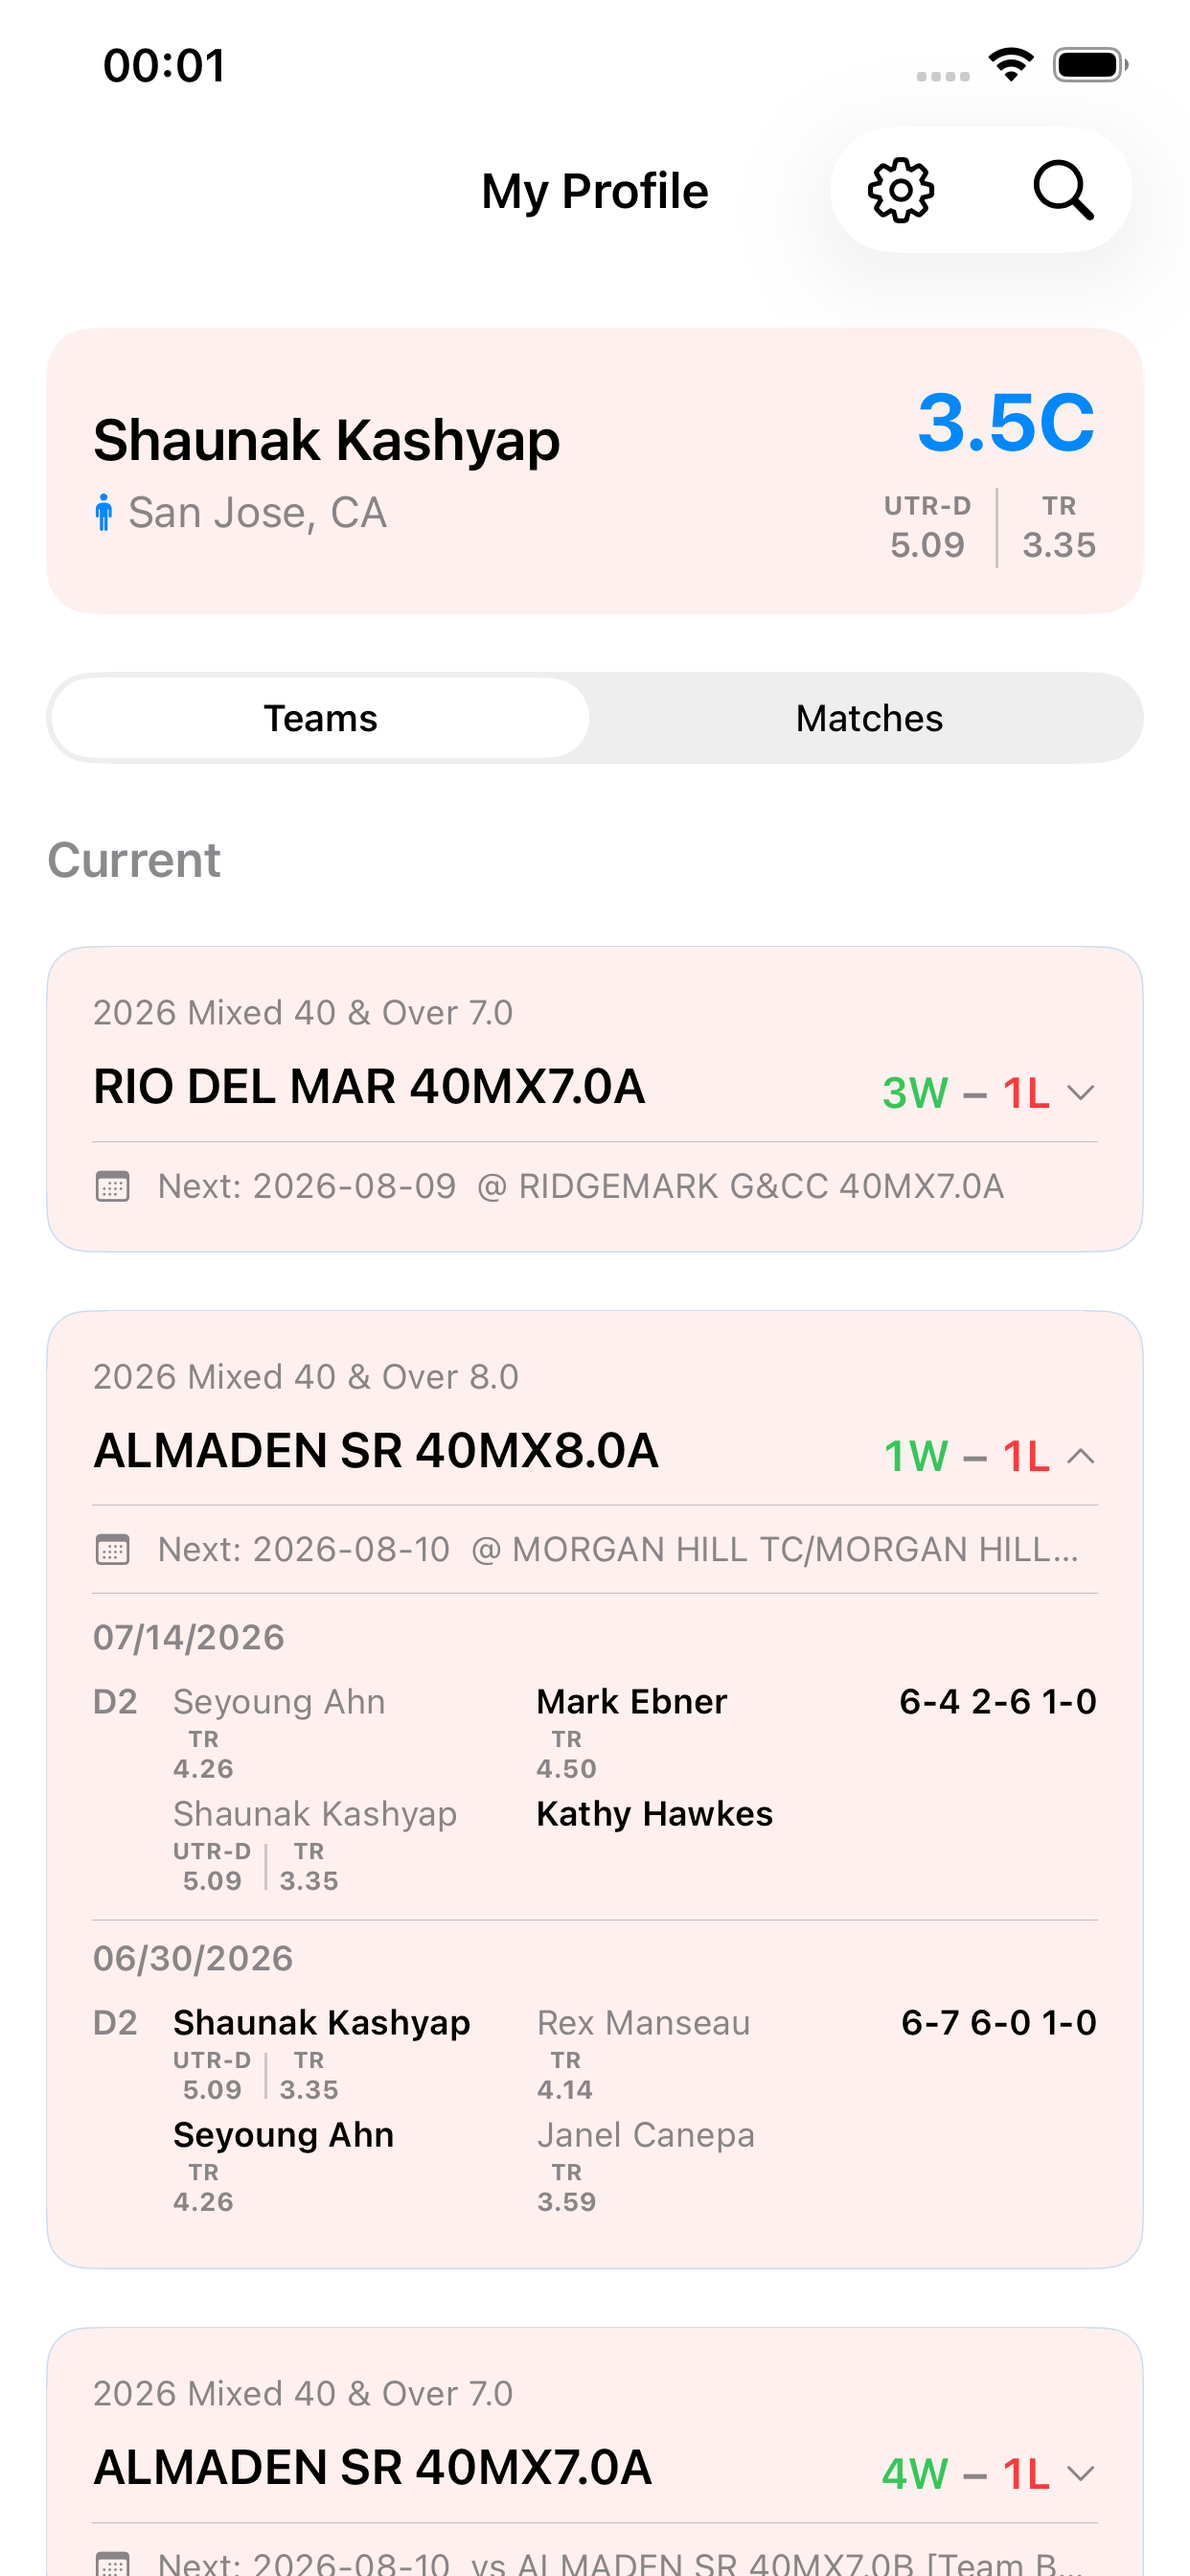
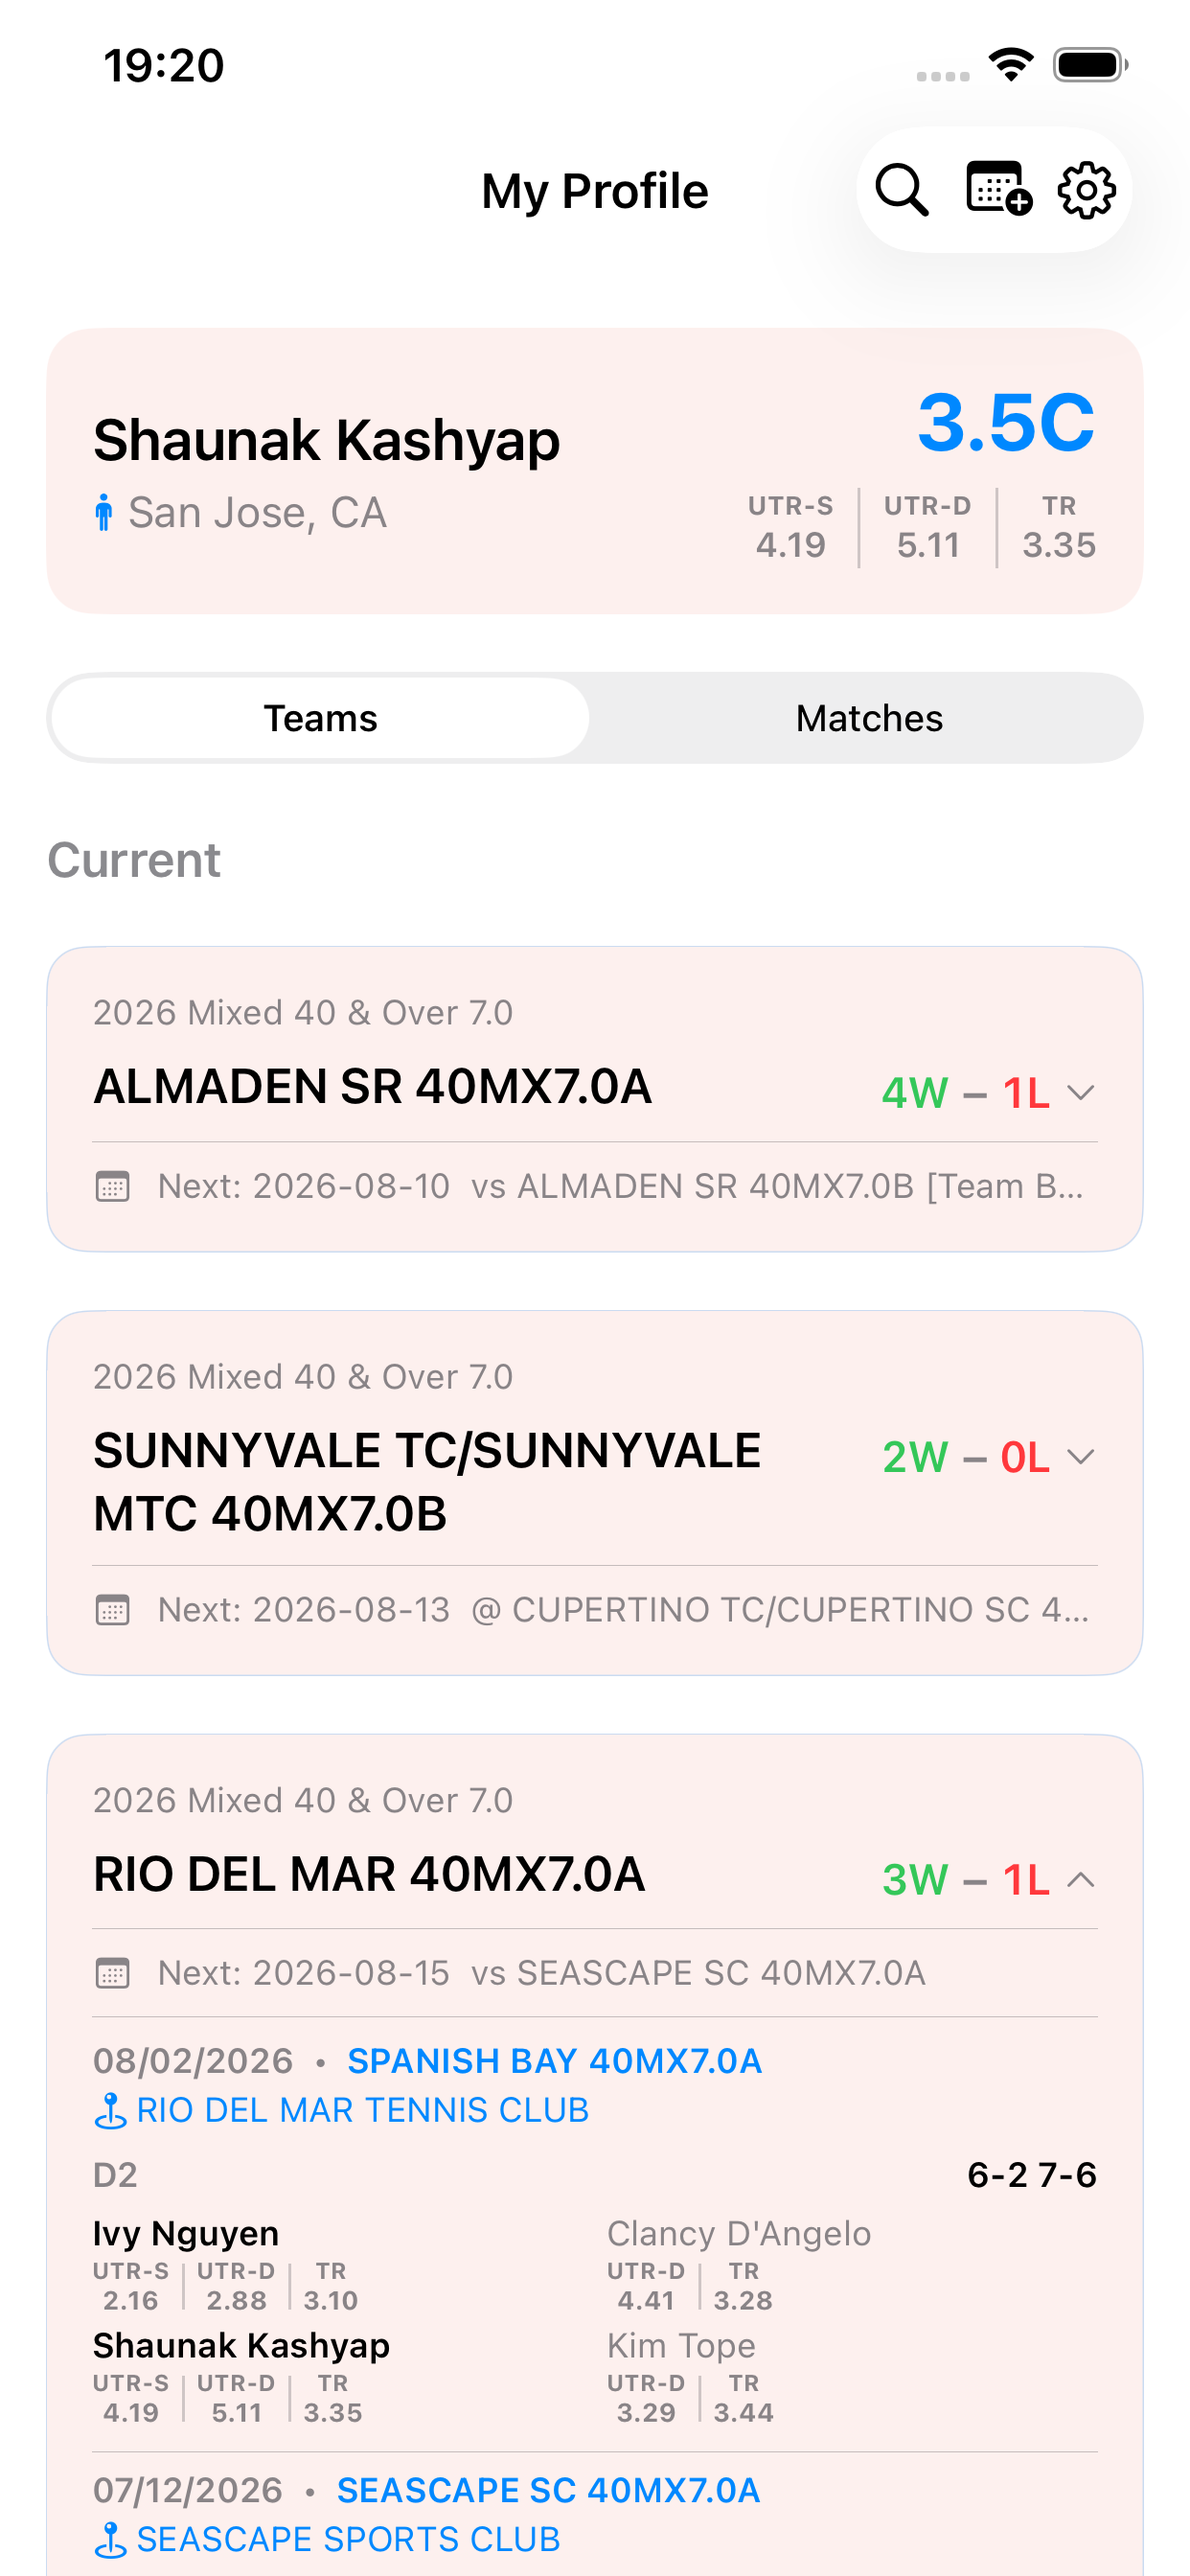
Refresh Net Results filtering showcase

diff --git a/net-results/index.html b/net-results/index.html
@@ -272,7 +272,7 @@
         <h2>Plan a lineup</h2>
         <p>Toggle player availability locally, then compare an Equal Play proposal with a Strongest Lines proposal for the same match.</p>
         <ul>
-          <li>Seeded from the team’s availability when signed in</li>
+          <li>Available to signed-in players on that team and seeded from team availability</li>
           <li>League format, gender, and rating limits respected</li>
           <li>Recent partner records help inform doubles pairings</li>
         </ul>
@@ -441,6 +441,24 @@
       </div>
       <div class="showcase-img">
         <img src="screenshots/11-team-roster-player-expanded.png" alt="Roster player expanded">
+      </div>
+    </div>
+  </section>
+
+  <!-- SHOWCASE: MATCH FILTERS -->
+  <section id="match-filters" class="showcase">
+    <div class="showcase-inner reverse">
+      <div class="showcase-text">
+        <h2>Find the matches that matter</h2>
+        <p>Filter any player’s history by doubles partner, individual opponent, or the exact opposing doubles pair—and combine filters when the scouting gets serious.</p>
+        <ul>
+          <li>Search partners, opponents, and opponent doubles pairs by name</li>
+          <li>Combine “With” and “Against” filters</li>
+          <li>See filtered match totals and win–loss records</li>
+        </ul>
+      </div>
+      <div class="showcase-img">
+        <img src="screenshots/15-player-match-filters.png" alt="Player match history filtered by partner and opposing doubles pair">
       </div>
     </div>
   </section>
